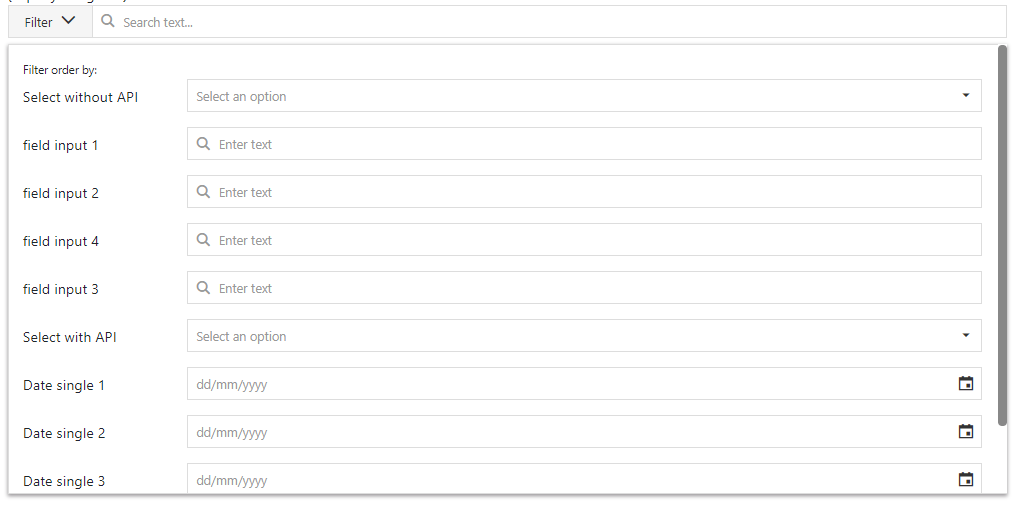
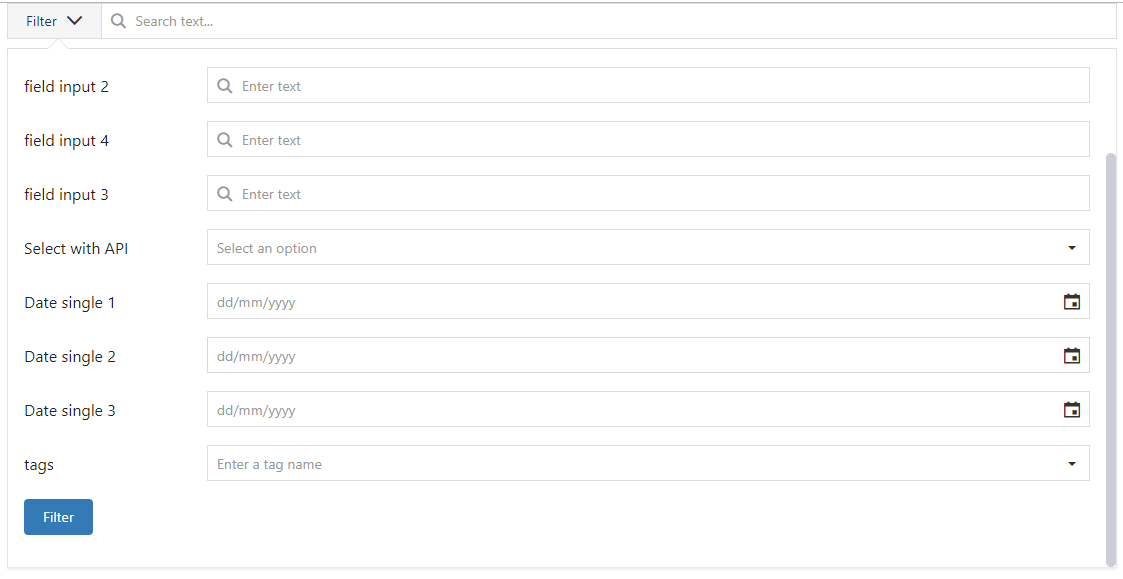
update form input date, demo, readme, travis CI

Changed region(s): [[0.0, 0.0, 1.0, 0.9961], [0.0, 0.0, 0.0304, 0.0311]]

diff --git a/src/app/filter-advanced/containers/filter-advanced/filter-advanced.component.scss b/src/app/filter-advanced/containers/filter-advanced/filter-advanced.component.scss
@@ -30,33 +30,20 @@ $color-primary: #274ac9;
     background-color: #fff;
 }
 
-.filter-dynamic-form {
-    position: relative;
-    .filter-advanced-content {
-        position: absolute;
-        width: 100%;
-        height: 500px;
-        overflow: auto;
-        top: 43px;
-        padding: 1em;
-        border: 1px solid #ddd;
-        z-index: 9;
-        -webkit-box-shadow: rgb(158, 156, 158) 0px 2px 4px 0px;
-        -moz-box-shadow: rgb(158, 156, 158) 0px 2px 4px 0px;
-        box-shadow: rgb(158, 156, 158) 0px 2px 4px 0px;
-        background-color: rgb(255, 255, 255);
-    }
-}
-
 .arrow_box {
-    position: relative;
-    background: #ffff;
+    // position: relative;
+    position: absolute;
+    width: 100%;
+    height: 100%;
+    background: #fff;
     border: 1px solid #ddd;
+    max-height: 520px;
+    min-height: 520px;
 }
 .arrow_box:after,
 .arrow_box:before {
     bottom: 100%;
-    left: 5%;
+    left: calc(5% - 5px);
     border: solid transparent;
     content: ' ';
     height: 0;
@@ -66,16 +53,38 @@ $color-primary: #274ac9;
 }
 
 .arrow_box:after {
-    border-color: rgba(0, 0, 0, 0);
-    border-bottom-color: #ffff;
-    border-width: 9px;
-    margin-left: -9px;
+    border-color: rgba(255, 255, 255, 0);
+    border-bottom-color: #fff;
+    border-width: 10px;
+    margin-left: -10px;
 }
 .arrow_box:before {
     border-color: rgba(221, 221, 221, 0);
     border-bottom-color: #ddd;
-    border-width: 10px;
-    margin-left: -10px;
+    border-width: 11px;
+    margin-left: -11px;
+}
+
+.mt--15 {
+    margin-top: -15px !important;
+}
+
+.filter-dynamic-form {
+    position: relative;
+    .filter-advanced-content {
+        position: absolute;
+        width: 100%;
+        height: 100%;
+        overflow: auto;
+        top: 0;
+        padding: 1em;
+        z-index: 9;
+        &.box-shadow {
+            -webkit-box-shadow: #ebebeb 0px 2px 2px 0px;
+            -moz-box-shadow: #ebebeb 0px 2px 2px 0px;
+            box-shadow: #ebebeb 0px 2px 2px 0px;
+        }
+    }
 }
 
 @mixin scroll-bar-style {

diff --git a/src/app/app.component.ts b/src/app/app.component.ts
@@ -1,10 +1,10 @@
 import { Component, ViewChild, AfterViewInit, OnInit } from '@angular/core';
-import { Validators } from '@angular/forms';
-import {
-    FieldConfig,
-    FieldType
-} from './filter-advanced/models/field-config.interface';
+import { FieldConfig } from './filter-advanced/models/field-config.interface';
 import { FilterAdvancedComponent } from './filter-advanced/containers/filter-advanced/filter-advanced.component';
+import {
+    mapToObjectParam,
+    mapToStringParam
+} from './filter-advanced/utilities';
 
 @Component({
     selector: 'my-app',
@@ -14,7 +14,8 @@ import { FilterAdvancedComponent } from './filter-advanced/containers/filter-adv
 export class AppComponent implements AfterViewInit, OnInit {
     @ViewChild(FilterAdvancedComponent, { static: true })
     formFilter: FilterAdvancedComponent;
-
+    objectParrams = {};
+    stringParrams = '';
     config: FieldConfig[] = [];
 
     ngOnInit() {
@@ -114,7 +115,10 @@ export class AppComponent implements AfterViewInit, OnInit {
 
     ngAfterViewInit() {
         let previousValid = this.formFilter.valid;
-        this.formFilter.changes.subscribe(() => {
+        this.formFilter.changes.subscribe(data => {
+            // map form value
+            this.objectParrams = mapToObjectParam(data);
+            this.stringParrams = mapToStringParam(data);
             if (this.formFilter.valid !== previousValid) {
                 previousValid = this.formFilter.valid;
             }

diff --git a/src/app/filter-advanced/containers/filter-advanced/filter-advanced.component.html b/src/app/filter-advanced/containers/filter-advanced/filter-advanced.component.html
@@ -41,21 +41,18 @@
             </div>
         </div>
     </div>
-
-    <div
-        *ngIf="isShowFilter && config"
-        [@fadeInOut]
-        class="filter-advanced-content arrow_box"
-    >
-        <small *ngIf="config && config.length > 1">
-            {{ helperFilterText }}
-        </small>
-        <ng-container
-            *ngFor="let field of config; let i = index"
-            dynamicField
-            [config]="field"
-            [group]="form"
-        >
-        </ng-container>
+    <div *ngIf="isShowFilter && config" [@fadeInOut] class="arrow_box mt--15">
+        <div class="filter-advanced-content box-shadow">
+            <small *ngIf="config && config.length > 1">
+                {{ helperFilterText }}
+            </small>
+            <ng-container
+                *ngFor="let field of config; let i = index"
+                dynamicField
+                [config]="field"
+                [group]="form"
+            >
+            </ng-container>
+        </div>
     </div>
 </form>

diff --git a/src/app/filter-advanced/utilities.ts b/src/app/filter-advanced/utilities.ts
@@ -1,3 +1,25 @@
+import { HttpParams } from '@angular/common/http';
+
 export function isNotEmpty(value: any): boolean {
     return value !== undefined && value !== null && value !== '';
+}
+
+export function mapToObjectParam(params: Object) {
+    let result = {};
+    for (const property in params) {
+        if (params.hasOwnProperty(property) && isNotEmpty(params[property])) {
+            result[property] = params[property];
+        }
+    }
+    return result;
+}
+
+export function mapToStringParam(params: Object) {
+    let httpParams: HttpParams = new HttpParams();
+    for (const property in params) {
+        if (params.hasOwnProperty(property) && isNotEmpty(params[property])) {
+            httpParams = httpParams.set(property, params[property]);
+        }
+    }
+    return httpParams.toString();
 }

diff --git a/src/app/app.component.html b/src/app/app.component.html
@@ -1,14 +1,28 @@
 <div class="container">
-    <div class="mt-100"></div>
-    <h4>Form Validation:</h4>
-    {{ formFilter.valid }}
-    <h4>Form Value:</h4>
-    {{ formFilter.value | json }}
-
+    <h1 class="page-header">Filter advanced dynamic</h1>
     <app-filter-advanced
         #formFilter
         [config]="config"
         (submit)="submitFilter($event)"
     >
     </app-filter-advanced>
+    <h1>Output search filter:</h1>
+    <hr />
+    <h5>Form valid:</h5>
+    <code>{{ formFilter.valid }}</code>
+    <hr />
+
+    <h5>Form Value:</h5>
+    <code>{{ formFilter.value | json }}</code>
+    <hr />
+
+    <h5>Object params:</h5>
+    <code>{{ objectParrams | json }}</code>
+    <hr />
+
+    <h5>String params:</h5>
+    <code>
+        {{ stringParrams }}
+    </code>
+    <hr />
 </div>

diff --git a/src/app/filter-advanced/components/form-single-date/form-single-date.component.html b/src/app/filter-advanced/components/form-single-date/form-single-date.component.html
@@ -9,6 +9,8 @@
             [placeholder]="config.placeholder"
             [formControlName]="config.name"
             displayFormat="dd/MM/yyyy"
+            dateSerializationFormat="yyy-MM-dd"
+            useMaskBehavior="true"
             width="100%"
             type="date"
         >

diff --git a/readme.md b/readme.md
@@ -2,15 +2,20 @@
 
 [![Build Status](https://travis-ci.org/ngnam/ngn-filter-advanced.svg?branch=master)](https://travis-ci.org/ngnam/ngn-filter-advanced)
 
-### Features
+## DEMOS
 
 -   Demo Online: [View Demo here](https://ngnam.github.io/ngn-filter-advanced)
 
-![demo filter advanced desktop](demo.png)
+![desktop](demo.png=200x100)
+![desktop form](demo-fill-form.png=200x100)
+![demo scrollbar](demo-scrollbar.png=200x100)
+![demo-map-object](demo-map-object.png=200x100)
+![demo-output-form](demo-output-form.png=200x100)
+![demo-mobile](demo-mobile.png=200x100)
 
-![demo filter advanced with scrollbar](demo-scrollbar.png)
+## Features
 
-![demo filter advanced mobile](demo-mobile.png)
+-   Demo Online: [View Demo here](https://ngnam.github.io/ngn-filter-advanced)
 
 -   Support lazy load module.
 -   Support show/hide display with animation fadeInOut.
@@ -41,7 +46,6 @@
         .....
         -   [x]  add more list type component
     };
-
 ```
 
 -   Support Change custom button for display label, name
@@ -72,7 +76,9 @@
     </small>
 ```
 
-### HOW
+-   :new: Support function map form value to Object Params & string query params
+
+## HOW
 
 -   Required:
 
